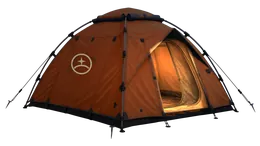
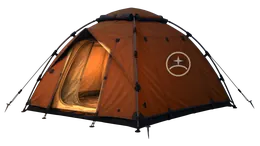
Refine camp: grounded placement, real scale, label styling
Remove the hero subtitle; place every tent and the fire on the dirt
clearing at a realistic scale; mirror About Us so its door faces the
fire; use the client's bookshelf icon on the Library tent; labels in
Poppins with more vertical padding and no hover underline.

Claude-Session: https://claude.ai/code/session_01KAb8PCX4ozAzeaMNThKSZM

diff --git a/index.html b/index.html
@@ -101,7 +101,6 @@
   <div class="gc-hero__intro">
     <p class="gc-hero__eyebrow">A scientific community, gathered around the fire</p>
     <h1 class="gc-hero__title" id="gc-hero-title">Where scientific ideas gather, grow and get published.</h1>
-    <p class="gc-hero__lede">From raw hypothesis at Kitchen Ideas, to private Study Groups, to a published paper in the Library.</p>
   </div>
 
   <!--
@@ -116,10 +115,10 @@
     <ul class="gc-camp__places" role="list">
 
       <li class="gc-camp__item">
-        <a class="gc-place gc-campfire" href="/kitchen-ideas/" style="--x:.652;--y:.77;--w:.24;--ar:.7122" aria-labelledby="gc-place-kitchen" aria-describedby="gc-place-kitchen-desc">
+        <a class="gc-place gc-campfire" href="/kitchen-ideas/" style="--x:.62;--y:.745;--w:.13;--ar:.7122" aria-labelledby="gc-place-kitchen" aria-describedby="gc-place-kitchen-desc">
           <span class="gc-place__art gc-campfire__art" aria-hidden="true">
             <span class="gc-campfire__glow"></span>
-            <img class="gc-campfire__img" src="assets/img/campfire-800.webp" srcset="assets/img/campfire-420.webp 420w, assets/img/campfire-800.webp 800w, assets/img/campfire-1200.webp 1200w" sizes="(min-width: 900px) 26vw, 13.5rem" width="800" height="570" alt="">
+            <img class="gc-campfire__img" src="assets/img/campfire-800.webp" srcset="assets/img/campfire-420.webp 420w, assets/img/campfire-800.webp 800w" sizes="(min-width: 900px) 14vw, 13.5rem" width="800" height="570" alt="">
             <span class="gc-campfire__flame gc-campfire__flame--1"></span>
             <span class="gc-campfire__flame gc-campfire__flame--2"></span>
             <span class="gc-campfire__flame gc-campfire__flame--3"></span>
@@ -133,10 +132,10 @@
       </li>
 
       <li class="gc-camp__item">
-        <a class="gc-place gc-cabin gc-cabin--library" href="/library/" style="--x:.189;--y:.73;--w:.32;--ar:.5615;--sx:-.1" aria-labelledby="gc-place-library" aria-describedby="gc-place-library-desc">
+        <a class="gc-place gc-cabin gc-cabin--library" href="/library/" style="--x:.22;--y:.727;--w:.22;--ar:.5615;--sx:-.1" aria-labelledby="gc-place-library" aria-describedby="gc-place-library-desc">
           <span class="gc-place__art" aria-hidden="true">
             <span class="gc-place__shadow"></span><span class="gc-place__light"></span>
-            <img class="gc-place__img" src="assets/img/tent-library-900.webp" srcset="assets/img/tent-library-260.webp 260w, assets/img/tent-library-520.webp 520w, assets/img/tent-library-900.webp 900w, assets/img/tent-library-1400.webp 1400w" sizes="(min-width: 900px) 35vw, 6.5rem" width="900" height="505" alt="" decoding="async">
+            <img class="gc-place__img" src="assets/img/tent-library-900.webp" srcset="assets/img/tent-library-260.webp 260w, assets/img/tent-library-520.webp 520w, assets/img/tent-library-900.webp 900w, assets/img/tent-library-1400.webp 1400w" sizes="(min-width: 900px) 24vw, 6.5rem" width="900" height="505" alt="" decoding="async">
             <img class="gc-place__glow" src="assets/img/tent-library-glow.webp" width="520" height="292" alt="" loading="lazy">
           </span>
           <span class="gc-place__label">
@@ -147,10 +146,10 @@
       </li>
 
       <li class="gc-camp__item">
-        <a class="gc-place gc-cabin gc-cabin--study" href="/study-groups/" style="--x:.461;--y:.666;--w:.23;--ar:.5615;--sx:-.08" aria-labelledby="gc-place-study" aria-describedby="gc-place-study-desc">
+        <a class="gc-place gc-cabin gc-cabin--study" href="/study-groups/" style="--x:.395;--y:.66;--w:.165;--ar:.5615;--sx:-.08" aria-labelledby="gc-place-study" aria-describedby="gc-place-study-desc">
           <span class="gc-place__art" aria-hidden="true">
             <span class="gc-place__shadow"></span><span class="gc-place__light"></span>
-            <img class="gc-place__img" src="assets/img/tent-study-900.webp" srcset="assets/img/tent-study-260.webp 260w, assets/img/tent-study-520.webp 520w, assets/img/tent-study-900.webp 900w, assets/img/tent-study-1400.webp 1400w" sizes="(min-width: 900px) 25vw, 6.5rem" width="900" height="505" alt="" decoding="async">
+            <img class="gc-place__img" src="assets/img/tent-study-900.webp" srcset="assets/img/tent-study-260.webp 260w, assets/img/tent-study-520.webp 520w, assets/img/tent-study-900.webp 900w, assets/img/tent-study-1400.webp 1400w" sizes="(min-width: 900px) 18vw, 6.5rem" width="900" height="505" alt="" decoding="async">
             <img class="gc-place__glow" src="assets/img/tent-study-glow.webp" width="520" height="292" alt="" loading="lazy">
           </span>
           <span class="gc-place__label">
@@ -161,10 +160,10 @@
       </li>
 
       <li class="gc-camp__item">
-        <a class="gc-place gc-cabin gc-cabin--about" href="/about/" style="--x:.835;--y:.695;--w:.253;--ar:.5615;--sx:.1" aria-labelledby="gc-place-about" aria-describedby="gc-place-about-desc">
+        <a class="gc-place gc-cabin gc-cabin--about" href="/about/" style="--x:.80;--y:.715;--w:.2;--ar:.5615;--sx:.1" aria-labelledby="gc-place-about" aria-describedby="gc-place-about-desc">
           <span class="gc-place__art" aria-hidden="true">
             <span class="gc-place__shadow"></span><span class="gc-place__light"></span>
-            <img class="gc-place__img" src="assets/img/tent-about-900.webp" srcset="assets/img/tent-about-260.webp 260w, assets/img/tent-about-520.webp 520w, assets/img/tent-about-900.webp 900w, assets/img/tent-about-1400.webp 1400w" sizes="(min-width: 900px) 28vw, 6.5rem" width="900" height="505" alt="" decoding="async">
+            <img class="gc-place__img" src="assets/img/tent-about-900.webp" srcset="assets/img/tent-about-260.webp 260w, assets/img/tent-about-520.webp 520w, assets/img/tent-about-900.webp 900w, assets/img/tent-about-1400.webp 1400w" sizes="(min-width: 900px) 22vw, 6.5rem" width="900" height="505" alt="" decoding="async">
             <img class="gc-place__glow" src="assets/img/tent-about-glow.webp" width="520" height="292" alt="" loading="lazy">
           </span>
           <span class="gc-place__label">

diff --git a/assets/css/main.css b/assets/css/main.css
@@ -265,7 +265,6 @@ ul[role="list"], ol[role="list"] { list-style: none; margin: 0; padding: 0; }
 
 .gc-hero__title { font-size: var(--font-size-h1); line-height: 1.08; color: var(--color-on-dark); }
 
-.gc-hero__lede { max-width: 44rem; margin: var(--space-3) auto 0; font-size: var(--font-size-lead); color: var(--color-on-dark); text-shadow: 0 1px 12px rgb(0 12 30 / .6); text-wrap: balance; }
 
 .gc-camp { padding: 0 var(--gutter) var(--space-6); }
 .gc-camp .gc-camp__places { display: grid; gap: .75rem; max-width: 34rem; margin-inline: auto; }
@@ -277,11 +276,11 @@ ul[role="list"], ol[role="list"] { list-style: none; margin: 0; padding: 0; }
 .gc-place:active { scale: .98; }
 
 .gc-place__label { display: block; }
-.gc-place__name { display: block; font-family: var(--font-family-heading); font-size: clamp(1.125rem, 1rem + .5vw, 1.375rem); line-height: 1.25; text-decoration: underline 1px transparent; text-underline-offset: .25em; }
+.gc-place__name { display: block; font-family: var(--font-family-body); font-weight: 600; font-size: clamp(1rem, .95rem + .3vw, 1.1875rem); line-height: 1.3; }
 .gc-place__desc { display: block; margin-top: 2px; font-size: var(--font-size-small); line-height: 1.45; color: var(--color-on-dark-muted); }
 
-/* Hover/focus: amber name + underline (never colour alone). */
-.gc-place:is(:hover, :focus-visible) .gc-place__name { color: var(--color-amber-hover); text-decoration-color: currentColor; }
+/* Hover/focus: amber name + amber plaque border; the tent also rises and lights up. */
+.gc-place:is(:hover, :focus-visible) .gc-place__name { color: var(--color-amber-hover); }
 
 .gc-place__art { position: relative; display: block; }
 .gc-place__img { position: relative; width: 100%; height: auto; }
@@ -303,11 +302,10 @@ ul[role="list"], ol[role="list"] { list-style: none; margin: 0; padding: 0; }
 
   .gc-hero__shade { background: linear-gradient(180deg, rgb(0 12 30 / .8) 0%, rgb(0 12 30 / .62) 26%, rgb(0 12 30 / .18) 46%, rgb(0 12 30 / 0) 62%, rgb(0 12 30 / .3) 100%); }
 
-  /* Intro lives in the sky band above the camp: one-line title, compact spacing. */
+  /* Intro lives in the sky band above the camp. */
   .gc-hero__intro { max-width: 82rem; padding-block: var(--space-2) 0; }
   .gc-hero__eyebrow { margin-bottom: var(--space-1); }
   .gc-hero__title { font-size: clamp(1.75rem, min(2.85vw, 6svh), 3.5rem); line-height: 1.12; }
-  .gc-hero__lede { max-width: 56rem; margin-top: .75rem; font-size: clamp(1rem, .8rem + .4vw, 1.1875rem); }
 
   .gc-camp { position: absolute; inset: 0; padding: 0; }
   .gc-camp .gc-camp__places { display: block; max-width: none; }
@@ -326,13 +324,11 @@ ul[role="list"], ol[role="list"] { list-style: none; margin: 0; padding: 0; }
   }
 
   /* Label = a small plaque on the ground, under the element. */
-  .gc-place__label { width: max-content; max-width: 13rem; padding: .3125rem .75rem .375rem; text-align: center; background: var(--color-scrim); border: 1px solid rgb(255 255 255 / .18); border-radius: 10px; }
+  .gc-place__label { width: max-content; max-width: 11.5rem; padding: .625rem .875rem; text-align: center; background: var(--color-scrim); border: 1px solid rgb(255 255 255 / .18); border-radius: 10px; }
   .gc-place:is(:hover, :focus-visible) .gc-place__label { border-color: rgb(255 200 61 / .8); }
-  /* Labels lean away from the fire so they never sit on the stones. */
-  .gc-cabin--study .gc-place__label { align-self: flex-start; margin-left: 6%; }
-  .gc-cabin--about .gc-place__label { align-self: flex-end; margin-right: 4%; }
-  .gc-place__name { font-size: clamp(1rem, .7rem + .55vw, 1.3125rem); }
-  .gc-place__desc { font-size: clamp(.75rem, .66rem + .18vw, .875rem); }
+  .gc-cabin--study .gc-place__label { translate: 14% 0; } /* clear of the Library tent's guy lines */
+  .gc-place__name { font-size: clamp(.9375rem, .8rem + .2vw, 1.0625rem); }
+  .gc-place__desc { font-size: clamp(.75rem, .7rem + .1vw, .8125rem); line-height: 1.4; }
 
   .gc-place__art { width: 100%; }
   .gc-cabin { padding: 0; background: none; border: 0; }
@@ -342,8 +338,8 @@ ul[role="list"], ol[role="list"] { list-style: none; margin: 0; padding: 0; }
 /* Compact range (900–1199px): smaller plaques, no eyebrow, so labels and intro never collide. */
 @media (min-width: 900px) and (max-width: 1199.98px) {
   .gc-hero__eyebrow { display: none; }
-  .gc-place__label { max-width: 9.5rem; padding: .25rem .5rem .3125rem; }
-  .gc-place__name { font-size: 1rem; }
+  .gc-place__label { max-width: 9.5rem; padding: .5rem .625rem; }
+  .gc-place__name { font-size: .875rem; }
   .gc-place__desc { font-size: .75rem; line-height: 1.35; }
 }
 
@@ -373,6 +369,7 @@ ul[role="list"], ol[role="list"] { list-style: none; margin: 0; padding: 0; }
 .gc-place__shadow, .gc-place__light { position: absolute; border-radius: 50%; pointer-events: none; transition: transform var(--duration-base) var(--ease-out), opacity var(--duration-base) var(--ease-out); }
 .gc-place__shadow { left: calc(4% + var(--sx, 0) * 100%); right: calc(4% - var(--sx, 0) * 100%); top: 66%; height: 26%; background: radial-gradient(closest-side, rgb(0 0 0 / .62), rgb(0 0 0 / .28) 60%, transparent); }
 .gc-place__light { left: 45%; right: -6%; top: 74%; height: 26%; background: radial-gradient(closest-side, rgb(255 170 80 / .42), transparent); mix-blend-mode: screen; opacity: .5; }
+.gc-cabin--about .gc-place__light { left: -6%; right: 45%; }
 
 .gc-cabin:is(:hover, :focus-visible) :is(.gc-place__img, .gc-place__glow) { transform: translateY(-3px); }
 .gc-cabin:is(:hover, :focus-visible) .gc-place__glow { opacity: 1; }

diff --git a/README.md b/README.md
@@ -43,15 +43,15 @@ All images are WebP, served through `srcset`, so retina screens get sharp versio
 | `assets/img/camp-bg-portrait-{540,1060}.webp` | Phone version: a crop around the lake and fire, softly blurred because it sits under a scrim |
 | `assets/img/tent-{library,study,about}-{260,520,900,1400}.webp` | Tents, built from the client's transparent tent PNG |
 | `assets/img/tent-*-glow.webp` | Extra interior light, shown on hover and focus (`mix-blend-mode: screen`) |
-| `assets/img/campfire-{420,800,1200}.webp` | The client's fire pit PNG, graded: dusk ambient, firelight on logs and stones, ember glow |
+| `assets/img/campfire-{420,800}.webp` | The client's fire pit PNG, graded: dusk ambient, firelight on logs and stones, ember glow |
 | `assets/img/campfire-flame.webp` | The flames only. Three copies of it flicker at 1.7, 2.3 and 3.1 s |
 
 How the tents were built:
 
 - **Fabric colour:** recoloured to the reference. Library is olive, Study Groups grey and About Us orange.
-- **Side icons:** books for Library, the original group icon for Study Groups, and the project mark for About Us (in place of the lightbulb).
+- **Side icons:** the client's bookshelf icon for Library, the original group icon for Study Groups, and the project mark for About Us (in place of the lightbulb).
 - **Lighting:** graded to the dusk scene, with cool ambient light and a warm key from the fire side. The interior is lamp-lit through the door.
-- **Orientation:** all three keep the door on the right, as in the reference.
+- **Orientation:** About Us is mirrored, so its door faces left towards the fire. Mirroring keeps full resolution.
 
 ### Framing and coordinates
 
@@ -76,22 +76,22 @@ Each place is pinned to the same spot of the photo with values in **image fracti
 | `--ar` | Art height ÷ width: 0.5615 for the tents, 0.7122 for the fire |
 | `--sx` | Offset of the cast shadow. Negative values push it left, away from the fire |
 
-Each place's values are measured on the client's reference composition:
+The ground of the photo was mapped and every element stands on the dirt clearing, which spans about x .20–.90 and y .60–.85. The back corners of each tent footprint stay on dirt, not on the bushes or the slope. The scale is realistic: the fire ring is about two thirds of a tent's width.
 
 | Place | `--x` | `--y` | `--w` |
 |---|---|---|---|
-| Kitchen Ideas (fire) | .652 | .77 | .24 |
-| Library | .189 | .73 | .32 |
-| Study Groups | .461 | .666 | .23 |
-| About Us | .835 | .695 | .253 |
+| Kitchen Ideas (fire) | .62 | .745 | .13 |
+| Library | .22 | .727 | .22 |
+| Study Groups | .395 | .66 | .165 |
+| About Us | .80 | .715 | .20 |
 
-**Labels.** The labels sit on the ground under each element, which keeps the sky clear for the title. The Study Groups and About Us labels lean away from the fire, so they never cover the stones. From 900 to 1199px the labels are compact and the eyebrow line is hidden.
+**Labels.** The labels sit on the ground under each element, which keeps the sky clear for the title. They use Poppins (sans-serif) with generous vertical padding and have no underline on hover. From 900 to 1199px they are compact and the eyebrow line is hidden.
 
 **Below 900px.** The fire comes first, followed by three full-width cards, each with a tent on the left.
 
 ### Hover and focus
 
-- **Tents:** the tent rises 3px, the extra interior light fades in, the cast shadow tightens and the door light on the ground brightens. The label turns amber and gets an underline.
+- **Tents:** the tent rises 3px, the extra interior light fades in, the cast shadow tightens and the door light on the ground brightens. The label name and border turn amber.
 - **Fire:** the flames brighten.
 
 ## WordPress conversion
@@ -129,7 +129,7 @@ The palette was sampled from the current site. The teal is darkened from `#00839
 | Project name `[NOME DO PROJETO]` | `<title>`, meta/OG, JSON-LD, `logo.svg`, logo `alt`, footer |
 | Logo and mark | `assets/svg/logo.svg`, `#gc-mark` symbol, inline favicon |
 | Tent and fire artwork | `assets/img/tent-*.webp`, `campfire.webp` (see "The camp") |
-| Hero eyebrow, title and subtitle | `.gc-hero__intro` |
+| Hero eyebrow and title | `.gc-hero__intro` |
 | Camp descriptions (4) | `.gc-place__desc` |
 | Hero backdrop | `assets/img/camp-bg-*.webp` |
 | Pipeline, join and mission texts | the corresponding sections |
@@ -153,8 +153,8 @@ The palette was sampled from the current site. The teal is darkened from `#00839
 
 | File | Size | Budget |
 |---|---|---|
-| `index.html` | 23.9 KB | ≤ 60 KB ✅ |
-| `assets/css/main.css` | 28.9 KB | ≤ 30 KB ✅ |
+| `index.html` | 23.7 KB | ≤ 60 KB ✅ |
+| `assets/css/main.css` | 28.5 KB | ≤ 30 KB ✅ |
 | `assets/js/main.js` | 3.9 KB | ≤ 8 KB ✅ |
 | Fonts | 43 KB (4 files) | — |
 
@@ -163,7 +163,7 @@ The palette was sampled from the current site. The teal is darkened from `#00839
 | Viewport | What loads | Total |
 |---|---|---|
 | Phone | 16–37 KB backdrop + 23 KB fire + 3 × 7–18 KB tents | ≈ 60–110 KB |
-| Desktop 1440px @1x | 98 KB backdrop + 54 KB fire + 3 × 18–38 KB tents + 3 × 21 KB glows | ≈ 300 KB |
+| Desktop 1440px @1x | 98 KB backdrop + 23 KB fire + 3 × 18 KB tents + 3 × 21 KB glows | ≈ 240 KB |
 
 All requests are local. There are no third-party requests.
 
@@ -195,5 +195,5 @@ Each brought it down from 2.8 s. Getting under 1.8 s would require dropping the 
 - **Paused animations:** the hero animations pause when the hero is off-screen and when the tab is hidden.
 - **Reduced motion:** no animations run, and hover still lights the tents.
 - **Contrast (WCAG 2.2 AA):**
-  - Hero text is measured on the rendered pixels at 390, 1024, 1440 and 1920px. The minimum is 6.7:1.
+  - Hero text is measured on the rendered pixels at 390, 1024, 1440 and 1920px. The minimum is 8.4:1.
   - Text in the light and dark sections passes; the lowest pair is 4.69:1.
